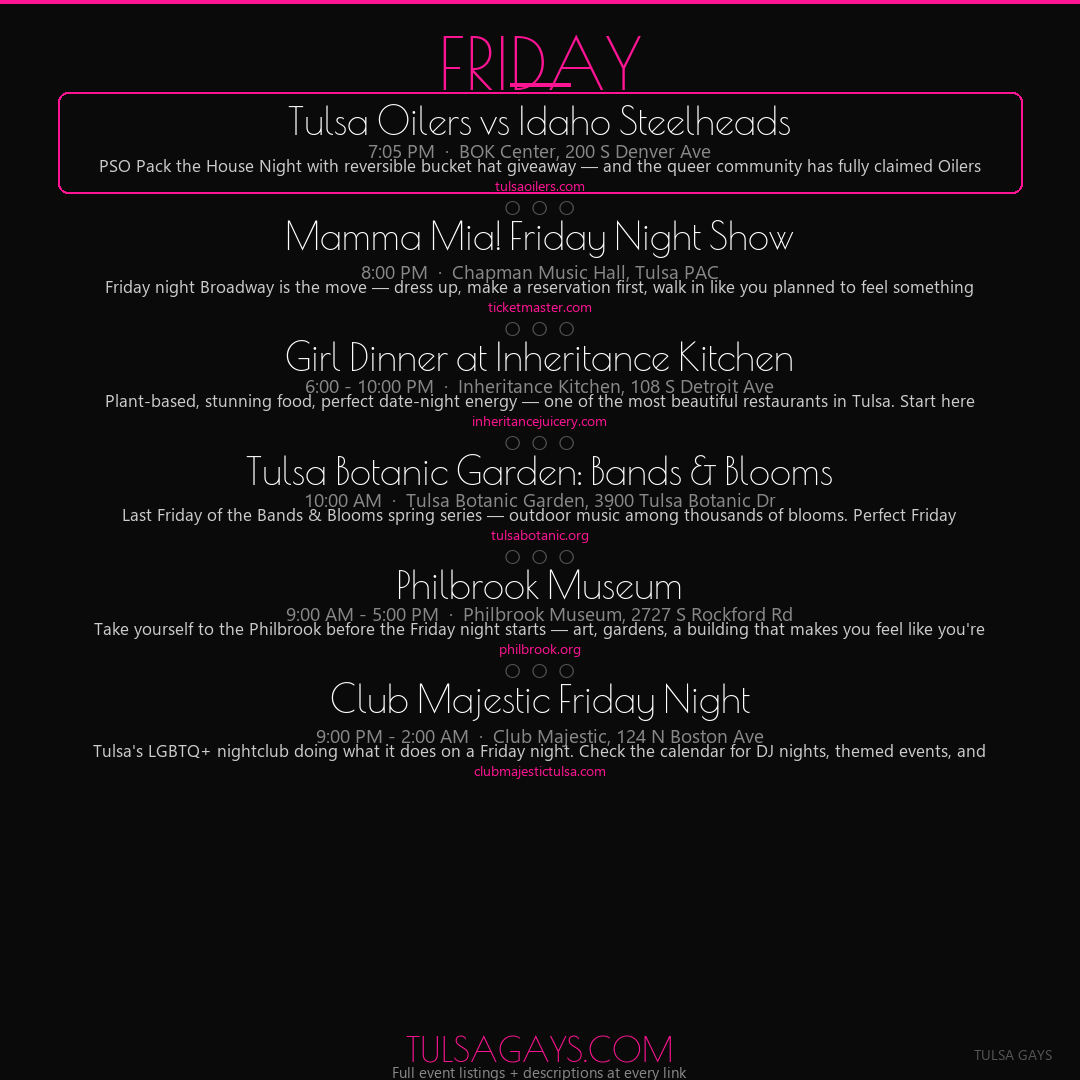
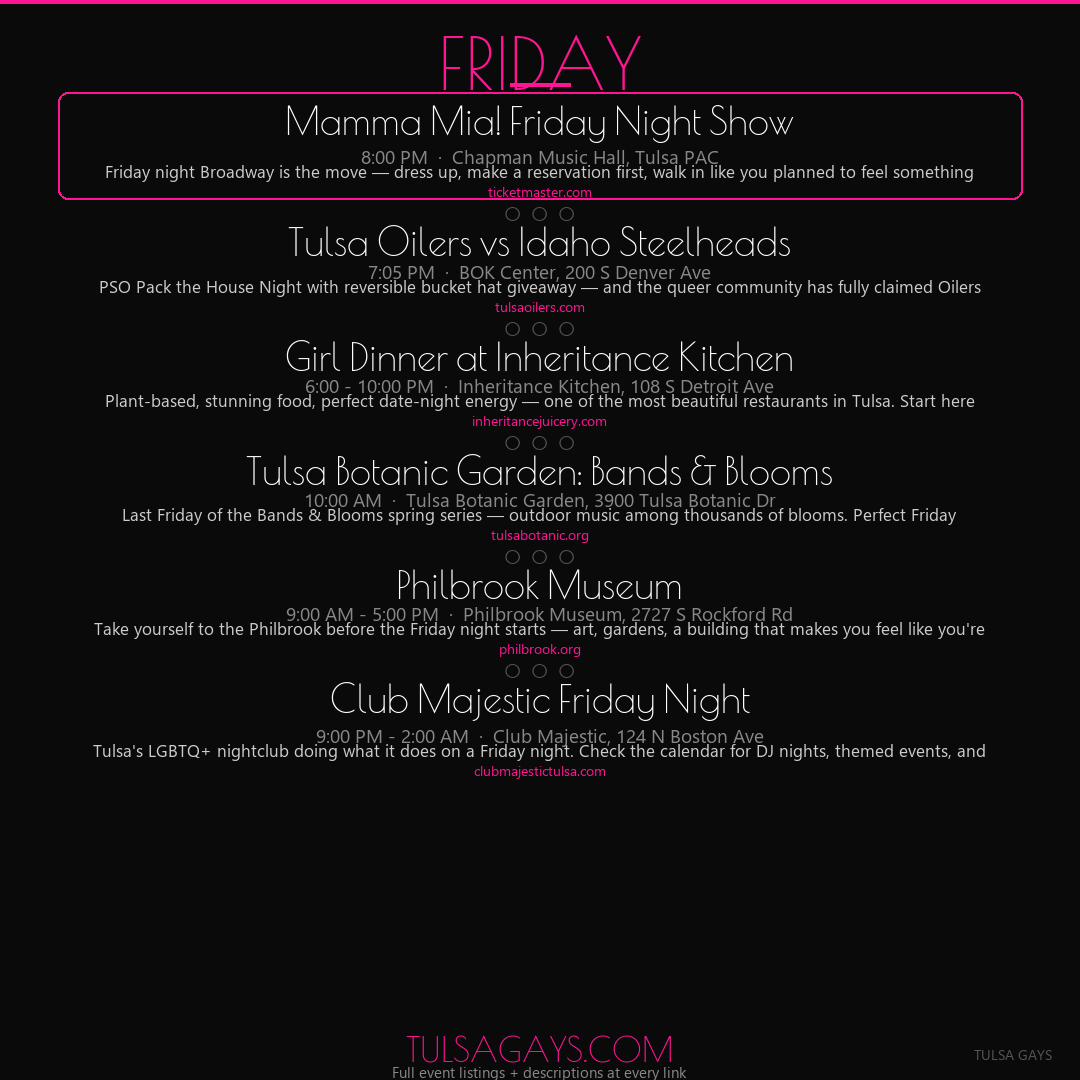
Fri featured: Mamma Mia Friday Night (swap from Oilers)

Changed region(s): [[0.0917, 0.0917, 0.9167, 0.3056]]

diff --git a/docs/index.html b/docs/index.html
@@ -602,27 +602,27 @@
 
                 <div class="event-card featured">
                     <div class="event-time-col">
-                        <div class="event-time" style="color:var(--gold)">7:05</div>
+                        <div class="event-time" style="color:var(--gold)">8:00</div>
                         <div class="event-ampm">PM</div>
                     </div>
                     <div class="event-details">
-                        <div class="event-name" style="color:var(--gold)">Tulsa Oilers vs. Idaho Steelheads</div>
-                        <div class="event-venue" style="color:var(--day-fri)">BOK Center &middot; 200 S Denver Ave</div>
-                        <div class="event-description">PSO Pack the House Night with reversible bucket hat giveaway &mdash; and the queer community has fully claimed Oilers nights at BOK. Fast, fun, affordable. Get there early for the hat.</div>
-                        <a href="https://tulsaoilers.com" class="event-link" target="_blank" rel="noopener">Tulsa Oilers &rarr;</a>
+                        <div class="event-name" style="color:var(--gold)">Mamma Mia! &mdash; Friday Night</div>
+                        <div class="event-venue" style="color:var(--day-fri)">Chapman Music Hall &middot; Tulsa PAC</div>
+                        <div class="event-description">Friday night Broadway is the move &mdash; dress up, make a reservation first, walk in like you planned to feel something amazing tonight because you did. Tickets still available but Friday fills fast.</div>
+                        <a href="https://ticketmaster.com" class="event-link" target="_blank" rel="noopener">Get Tickets &rarr;</a>
                     </div>
                 </div>
 
                 <div class="event-card">
                     <div class="event-time-col">
-                        <div class="event-time" style="color:var(--day-fri)">8:00</div>
+                        <div class="event-time" style="color:var(--day-fri)">7:05</div>
                         <div class="event-ampm">PM</div>
                     </div>
                     <div class="event-details">
-                        <div class="event-name">Mamma Mia! &mdash; Friday Night</div>
-                        <div class="event-venue" style="color:var(--day-fri)">Chapman Music Hall &middot; Tulsa PAC</div>
-                        <div class="event-description">Friday night Broadway is the move &mdash; dress up, make a reservation first, walk in like you planned to feel something amazing tonight because you did. Tickets still available but Friday fills fast.</div>
-                        <a href="https://ticketmaster.com" class="event-link" target="_blank" rel="noopener">Get Tickets &rarr;</a>
+                        <div class="event-name">Tulsa Oilers vs. Idaho Steelheads</div>
+                        <div class="event-venue" style="color:var(--day-fri)">BOK Center &middot; 200 S Denver Ave</div>
+                        <div class="event-description">PSO Pack the House Night with reversible bucket hat giveaway &mdash; and the queer community has fully claimed Oilers nights at BOK. Fast, fun, affordable. Get there early for the hat.</div>
+                        <a href="https://tulsaoilers.com" class="event-link" target="_blank" rel="noopener">Tulsa Oilers &rarr;</a>
                     </div>
                 </div>
 

diff --git a/gen_this_week.py b/gen_this_week.py
@@ -81,8 +81,8 @@ events_by_day = {
         {"name": "OKEQ Health Clinic", "time": "9:00 AM - 12:00 PM", "venue": "Equality Center, 621 E 4th St", "description": "Thursday morning LGBTQ+ health clinic hours — appointment required, call 918-938-6537. STI testing, PrEP, affirming primary care.", "url": "okeq.org/programs"},
     ],
     "Friday": [
-        {"name": "Tulsa Oilers vs Idaho Steelheads", "time": "7:05 PM", "venue": "BOK Center, 200 S Denver Ave", "description": "PSO Pack the House Night with reversible bucket hat giveaway — and the queer community has fully claimed Oilers nights at BOK. Fast, fun, affordable. Get there early for the hat.", "url": "tulsaoilers.com"},
         {"name": "Mamma Mia! Friday Night Show", "time": "8:00 PM", "venue": "Chapman Music Hall, Tulsa PAC", "description": "Friday night Broadway is the move — dress up, make a reservation first, walk in like you planned to feel something amazing tonight because you did. Tickets still available but Friday fills fast.", "url": "ticketmaster.com"},
+        {"name": "Tulsa Oilers vs Idaho Steelheads", "time": "7:05 PM", "venue": "BOK Center, 200 S Denver Ave", "description": "PSO Pack the House Night with reversible bucket hat giveaway — and the queer community has fully claimed Oilers nights at BOK. Fast, fun, affordable. Get there early for the hat.", "url": "tulsaoilers.com"},
         {"name": "Girl Dinner at Inheritance Kitchen", "time": "6:00 - 10:00 PM", "venue": "Inheritance Kitchen, 108 S Detroit Ave", "description": "Plant-based, stunning food, perfect date-night energy — one of the most beautiful restaurants in Tulsa. Start here before the show or make it the whole evening. Make a reservation.", "url": "inheritancejuicery.com"},
         {"name": "Tulsa Botanic Garden: Bands & Blooms", "time": "10:00 AM", "venue": "Tulsa Botanic Garden, 3900 Tulsa Botanic Dr", "description": "Last Friday of the Bands & Blooms spring series — outdoor music among thousands of blooms. Perfect Friday afternoon before the evening starts. Bring someone.", "url": "tulsabotanic.org"},
         {"name": "Philbrook Museum", "time": "9:00 AM - 5:00 PM", "venue": "Philbrook Museum, 2727 S Rockford Rd", "description": "Take yourself to the Philbrook before the Friday night starts — art, gardens, a building that makes you feel like you're somewhere else entirely. Worth a Friday afternoon.", "url": "philbrook.org"},
